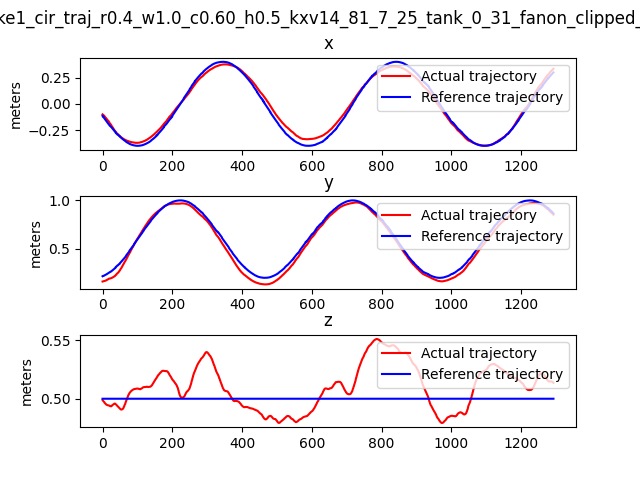
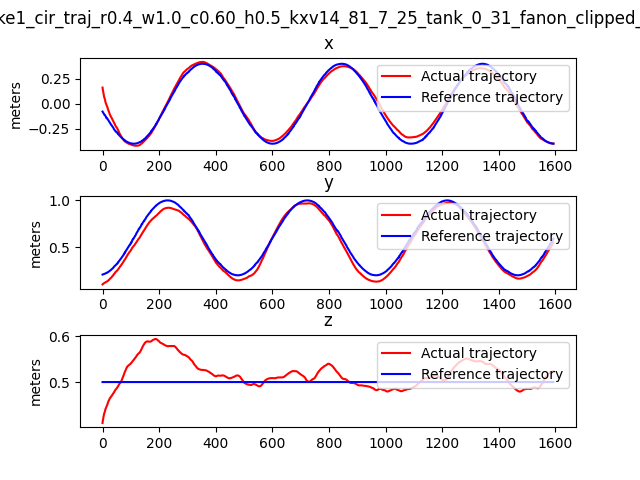
circle trajectory (0.6,0.0)

diff --git a/GP/gp_advanced/plot_trajectory_ref.py b/GP/gp_advanced/plot_trajectory_ref.py
@@ -42,10 +42,10 @@ home_path = home_path + 'circle_data/'
 # bag_path = home_path + '28_07_2024_take1_cir_traj_r0.4_w1.0_c0.00_h0.5_kxv19_04_9_30_tank_0_31_fanon_clipped_new'
 #(500, 800)
 
-bag_path = home_path + '28_07_2024_take1_cir_traj_r0.4_w1.0_c0.60_h0.5_kxv7_00_4_00_tank_0_31_fanoff_clipped_new'
+# bag_path = home_path + '28_07_2024_take1_cir_traj_r0.4_w1.0_c0.60_h0.5_kxv7_00_4_00_tank_0_31_fanoff_clipped_new'
 # bag_path = home_path + '28_07_2024_take1_cir_traj_r0.4_w1.0_c0.60_h0.5_kxv7_00_4_00_tank_0_31_fanon_clipped_new'
 # (500,800)
-# bag_path = home_path + '28_07_2024_take1_cir_traj_r0.4_w1.0_c0.60_h0.5_kxv14_81_7_25_tank_0_31_fanon_clipped_new'
+bag_path = home_path + '28_07_2024_take1_cir_traj_r0.4_w1.0_c0.60_h0.5_kxv14_81_7_25_tank_0_31_fanon_clipped_new'
 # bag_path = home_path + '28_07_2024_take1_cir_traj_r0.4_w1.0_c0.60_h0.5_kxv18_86_8_93_tank_0_31_fanon_clipped_new'
 
 
@@ -247,7 +247,7 @@ with Reader(bag_path) as reader:
 # print("z min: ", min(z_data))
 assert len(x_data) == len(y_data) == len(z_data), "Lengths of the lists are not the same."
 cutoff = len(x_data) - 1000
-threshold = 1000
+threshold = 00
 
 
 print("cutoff, threshold = ", cutoff, threshold)
@@ -261,14 +261,14 @@ y = np.array(y_data[threshold:cutoff])
 z = np.array(z_data[threshold:cutoff])
 if save :
     stacked_array = np.column_stack((x,y,z))
-    np.save('compare_trajectory/unoptimized_trajectory_cir_traj_r0.4_w1.0_c0.60_h0.5_kxv7_4_fanoff.npy',stacked_array)
+    np.save('compare_trajectory/optimized_trajectory_cir_traj_r0.4_w1.0_c0.60_h0.5_kxv14_81_7_25.npy',stacked_array)
 #print("size of x data is: ",x.shape)
 x_t = x_ideal = np.array(x_ideal[threshold:cutoff])
 y_t = y_ideal = np.array(y_ideal[threshold:cutoff])
 z_t = z_ideal = np.array(z_ideal[threshold:cutoff])
 if save : 
     stacked_array = np.column_stack((x_t,y_t,z_t))
-    np.save('compare_trajectory/ideal_trajectory_cir_traj_r0.4_w1.0_c0.60_h0.5_fanoff.npy',stacked_array)
+    np.save('compare_trajectory/ideal_trajectory_cir_traj_r0.4_w1.0_c0.60_h0.5_kxv14_81_7_25.npy',stacked_array)
 # Scatter plot
 ax.set_zlim(0,1)
 ax.scatter(x, y, z, c= 'r')

diff --git a/GP/gp_advanced/animate_trajectory_individual.py b/GP/gp_advanced/animate_trajectory_individual.py
@@ -8,10 +8,10 @@ ax = fig.add_subplot(111, projection='3d')
 ax.set_xlim(-0.5,0.5)
 ax.set_ylim(-0.5,0.5)
 ax.set_zlim(0,1)
-specifier = 'cir_traj_r0.4_w1.0_c0.60_h0.5_fanoff'
-ideal_array = np.load('compare_trajectory/ideal_trajectory_cir_traj_r0.4_w1.0_c0.60_h0.5_fanoff.npy')
-unoptimized_array = np.load('compare_trajectory/unoptimized_trajectory_cir_traj_r0.4_w1.0_c0.60_h0.5_kxv7_4_fanoff.npy')
-optimized_array = np.load('compare_trajectory/optimized_trajectory_cir_r0.4_w1.0_c0.00_h0.5_kxv19_9.npy')
+specifier = 'cir_traj_r0.4_w1.0_c0.60_h0.5_kxv14_81_7_25'
+ideal_array = np.load('compare_trajectory/ideal_trajectory_'+ specifier+'.npy')
+unoptimized_array = np.load('compare_trajectory/unoptimized_trajectory_'+specifier+'.npy')
+optimized_array = np.load('compare_trajectory/optimized_trajectory_'+specifier+'.npy')
 # x = np.linspace(0,5,5000)
 # y = np.ones(x.shape)
 # z = 5* np.ones(x.shape)
